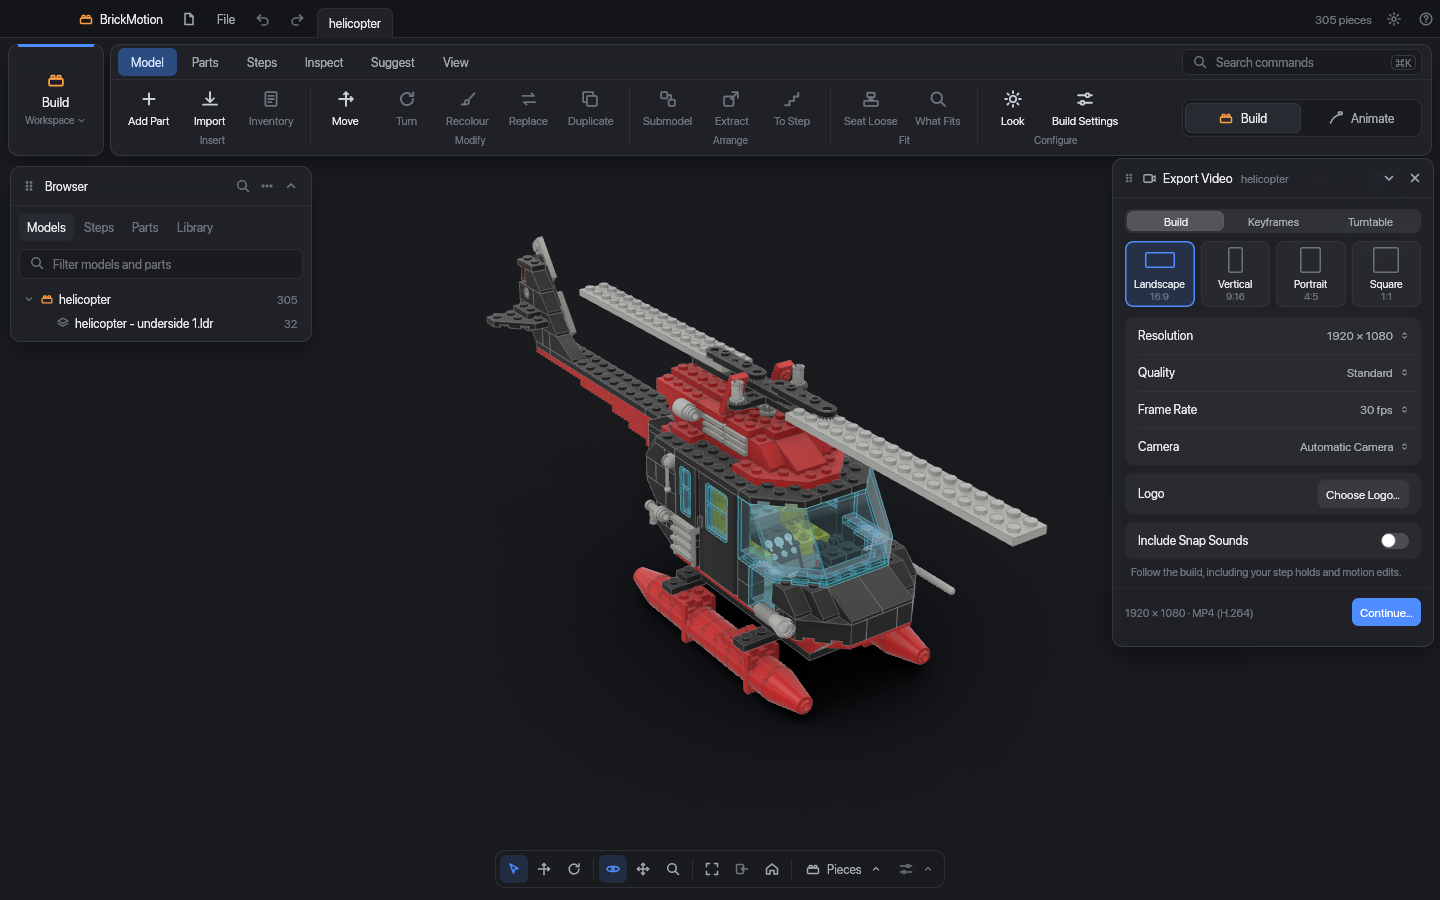
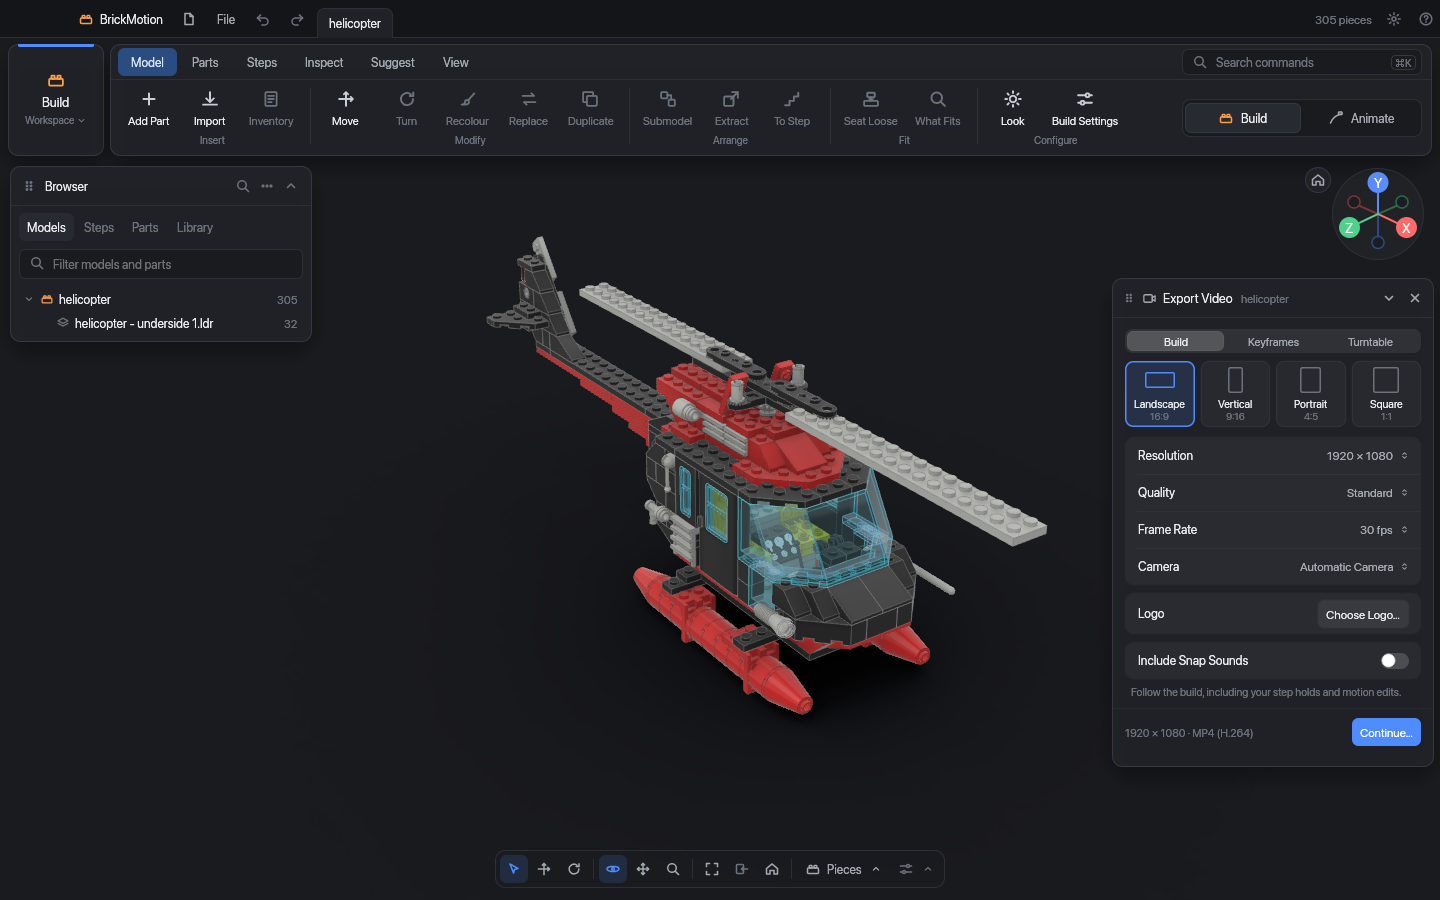
fix(desktop): floating panels sit below the axis navigator
The floating editors (Export Video, Export Still, Render Queue, Look,
Motion, Keys, Camera, Joints) stacked from the top of the view and covered
the axis navigator. They now start at the same clearance as Properties
(navigator::CLEARANCE, 122 px), and dragged panels keep that anchor.

diff --git a/desktop/crates/brickmotion/tests/export.rs b/desktop/crates/brickmotion/tests/export.rs
@@ -586,3 +586,23 @@ fn file_menu_opens_export_panels() {
     assert!(run(h.state_mut(), "file.export_still"));
     assert!(h.state().still.open, "the menu item never closes the panel");
 }
+
+/// The floating editors stack below the axis navigator in the top-right corner, never over it.
+#[test]
+fn floating_panels_clear_axis_navigator() {
+    for (cmd, panel) in [
+        ("output.export_movie", "Export Video panel"),
+        ("output.export_still", "Export Still panel"),
+        ("output.render_queue", "Render Queue panel"),
+        ("view.look", "Look panel"),
+    ] {
+        let mut h = app();
+        assert!(run(h.state_mut(), cmd), "{cmd}");
+        h.run_steps(3);
+        // The Top View disc's centre sits 11/64 of the 96-px navigator below its top.
+        let top_view = h.get_by_label("Top View").rect();
+        let navigator_bottom = top_view.center().y - 11.0 * 1.5 + 96.0;
+        let rect = h.get_by_label(panel).rect();
+        assert!(rect.top() >= navigator_bottom, "{panel} top {} overlaps the navigator (bottom {navigator_bottom})", rect.top());
+    }
+}

diff --git a/desktop/crates/brickmotion/src/chrome/mod.rs b/desktop/crates/brickmotion/src/chrome/mod.rs
@@ -65,8 +65,8 @@ pub fn central(ui: &mut Ui, app: &mut BrickMotionApp) {
         ribbon::show(ui, app, rect);
         let below = egui::Rect::from_min_max(egui::pos2(rect.left(), rect.top() + ribbon::SPACE), rect.max);
         browser::show(ui, app, below);
-        // Floating editors take the top right; Properties steps aside while one is open.
-        let mut next_top = below.top() + 2.0;
+        // Floating editors take the top right under the navigator; Properties steps aside while one is open.
+        let mut next_top = below.top() + navigator::CLEARANCE;
         let editing = app.camera_selection.is_some() || app.panels.camera || keys_panel::is_open(app) || motion_panel::is_open(app) || joints::is_open(app) || look_panel::is_open(app) || queue_panel::is_open(app) || export_movie::is_open(app) || export_still::is_open(app);
         if editing {
             joints::panel(ui, app, below, &mut next_top);

diff --git a/desktop/crates/brickmotion/src/chrome/properties.rs b/desktop/crates/brickmotion/src/chrome/properties.rs
@@ -42,7 +42,7 @@ pub fn show(ui: &mut Ui, app: &mut BrickMotionApp, area: Rect) {
     let t = app.theme;
     let page = app.properties_page;
     let width = if page.is_settings() { SETTINGS_WIDTH } else { INSPECTOR_WIDTH };
-    let top = if page.is_settings() { area.top() + 10.0 } else { area.top() + 122.0 };
+    let top = if page.is_settings() { area.top() + 10.0 } else { area.top() + super::navigator::CLEARANCE };
     let max_h = (area.bottom() - top - 12.0).max(200.0);
 
     let mut run: Option<&'static str> = None;

diff --git a/desktop/crates/brickmotion/src/chrome/float_panel.rs b/desktop/crates/brickmotion/src/chrome/float_panel.rs
@@ -107,7 +107,7 @@ pub fn show(
 ) -> Outcome {
     let t = app.theme;
     let place = app.panels.places.get(&kind).copied().unwrap_or_default();
-    let anchor = pos2(area.right() - GAP - WIDTH, area.top() + 2.0);
+    let anchor = pos2(area.right() - GAP - WIDTH, area.top() + super::navigator::CLEARANCE);
     let pos = match place.offset {
         Some(off) => anchor + off,
         None => pos2(area.right() - GAP - WIDTH, *next_top),

diff --git a/desktop/crates/brickmotion/src/chrome/navigator.rs b/desktop/crates/brickmotion/src/chrome/navigator.rs
@@ -7,6 +7,8 @@ use crate::icons::Icon;
 use crate::viewport::ViewOp;
 
 const SIZE: f32 = 96.0;
+/// How far below the top of the view the panels in the right column start, clear of the navigator.
+pub const CLEARANCE: f32 = 122.0;
 
 pub fn show(ui: &mut Ui, app: &mut BrickMotionApp, area: Rect) {
     let t = app.theme;
